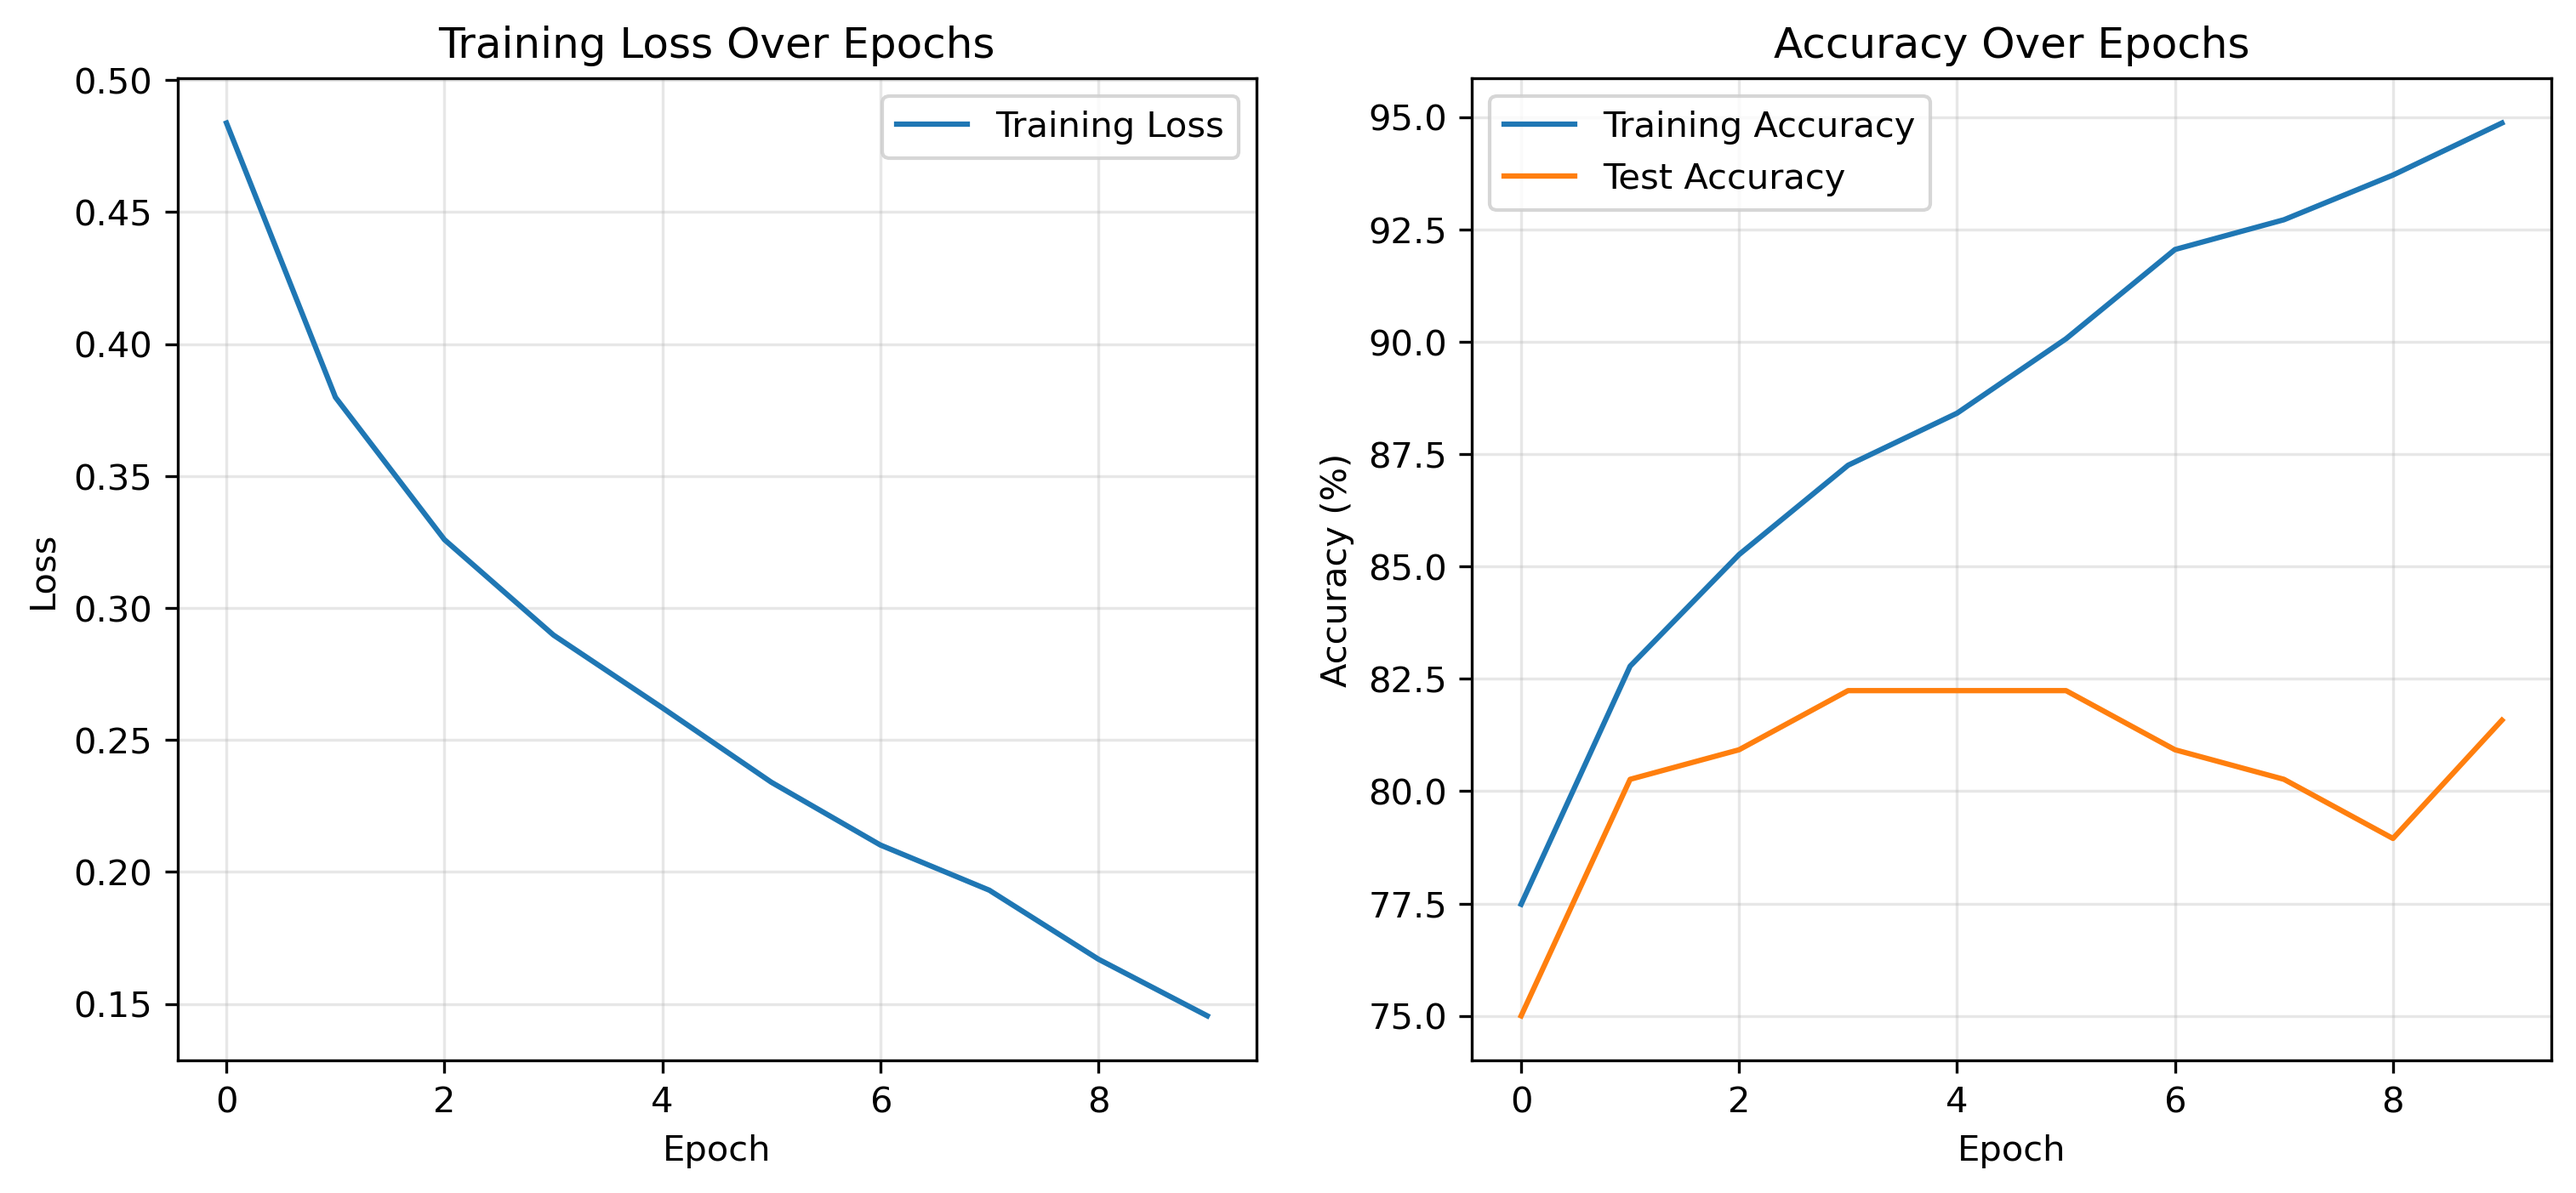
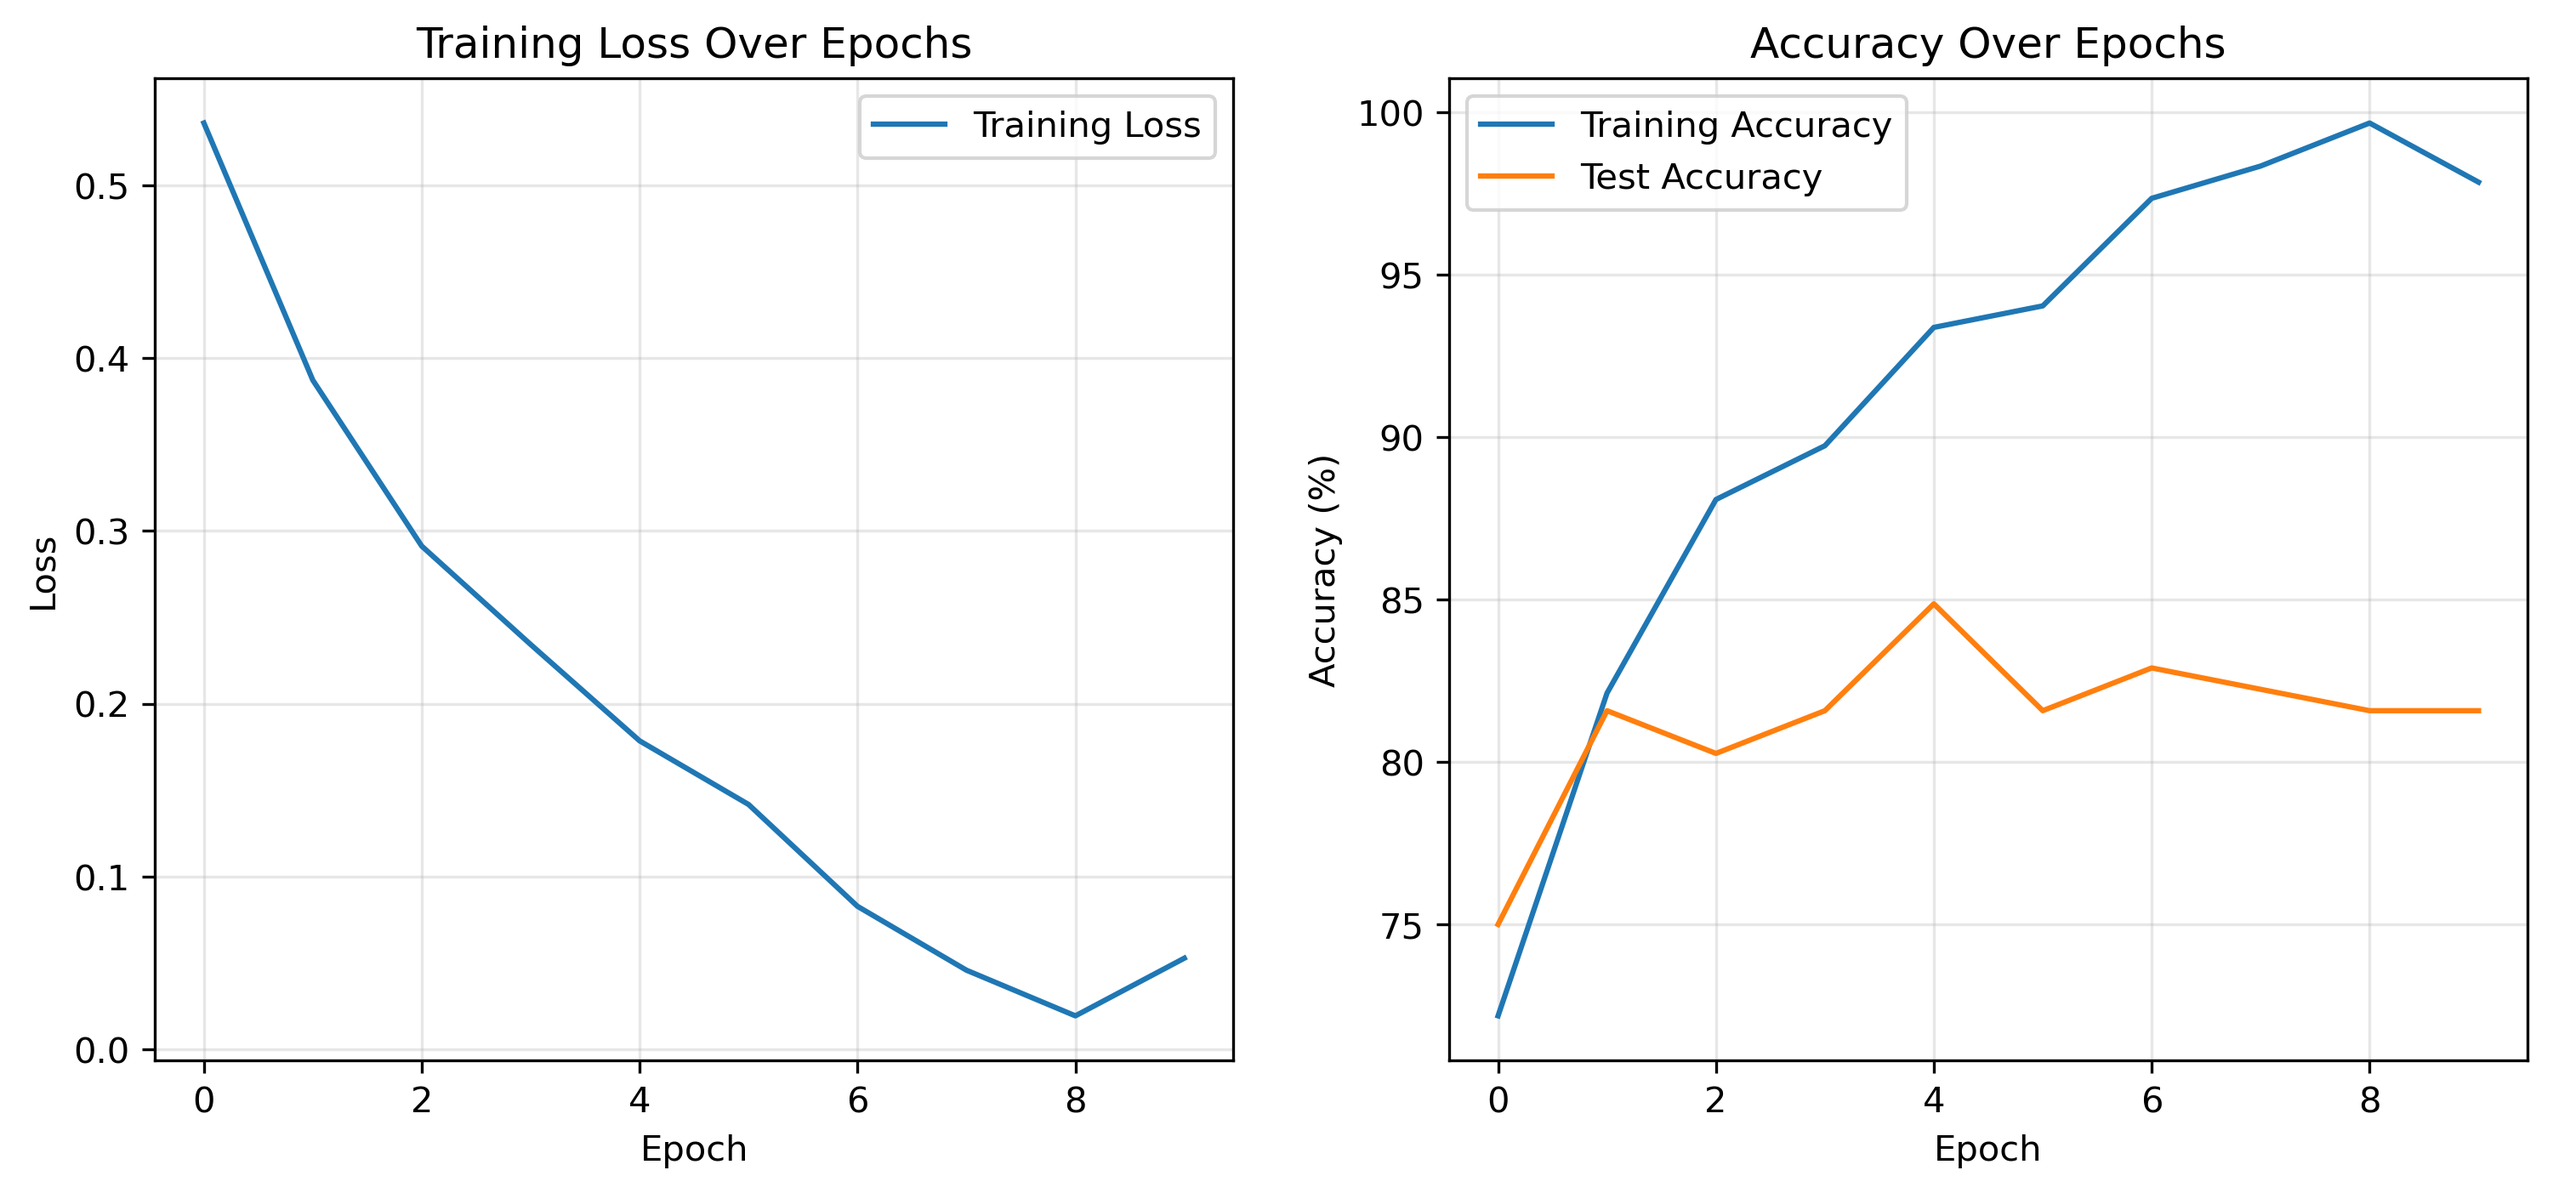
parkinson_757_compilcated_mlp

diff --git a/benchmark/mlp/parkinsonsDisease_757/parkinsons757_mlp_classifier.py b/benchmark/mlp/parkinsonsDisease_757/parkinsons757_mlp_classifier.py
@@ -81,6 +81,27 @@ class MLP(nn.Module):
         x = self.fc2(x)
         return x
 
+class MLP_757(nn.Module):
+    def __init__(self, input_dim, hidden_size=256):
+        super(MLP_757, self).__init__()
+        self.fc1 = nn.Linear(input_dim, hidden_size)
+        self.relu1 = nn.ReLU()
+        self.fc2 = nn.Linear(hidden_size, 128)
+        self.relu2 = nn.ReLU()
+        self.fc3 = nn.Linear(128, 64)
+        self.relu3 = nn.ReLU()
+        self.fc4 = nn.Linear(64, 2)  # 二分类，输出 2 个类别
+
+    def forward(self, x):
+        x = self.fc1(x)
+        x = self.relu1(x)
+        x = self.fc2(x)
+        x = self.relu2(x)
+        x = self.fc3(x)
+        x = self.relu3(x)
+        x = self.fc4(x)
+        return x
+
 # 训练和评估模型的通用函数
 def train_and_evaluate(model, train_loader, test_loader, criterion, optimizer, config):
     # 用于记录每轮的指标
@@ -297,7 +318,7 @@ def main():
     
     # 初始化模型、损失函数和优化器
     input_dim = dataset.features.shape[1]  # 特征维度
-    model = MLP(input_dim, config.HIDDEN_SIZE)
+    model = MLP_757(input_dim, config.HIDDEN_SIZE)
     criterion = nn.CrossEntropyLoss()
     optimizer = torch.optim.Adam(model.parameters(), lr=config.LEARNING_RATE)
     
